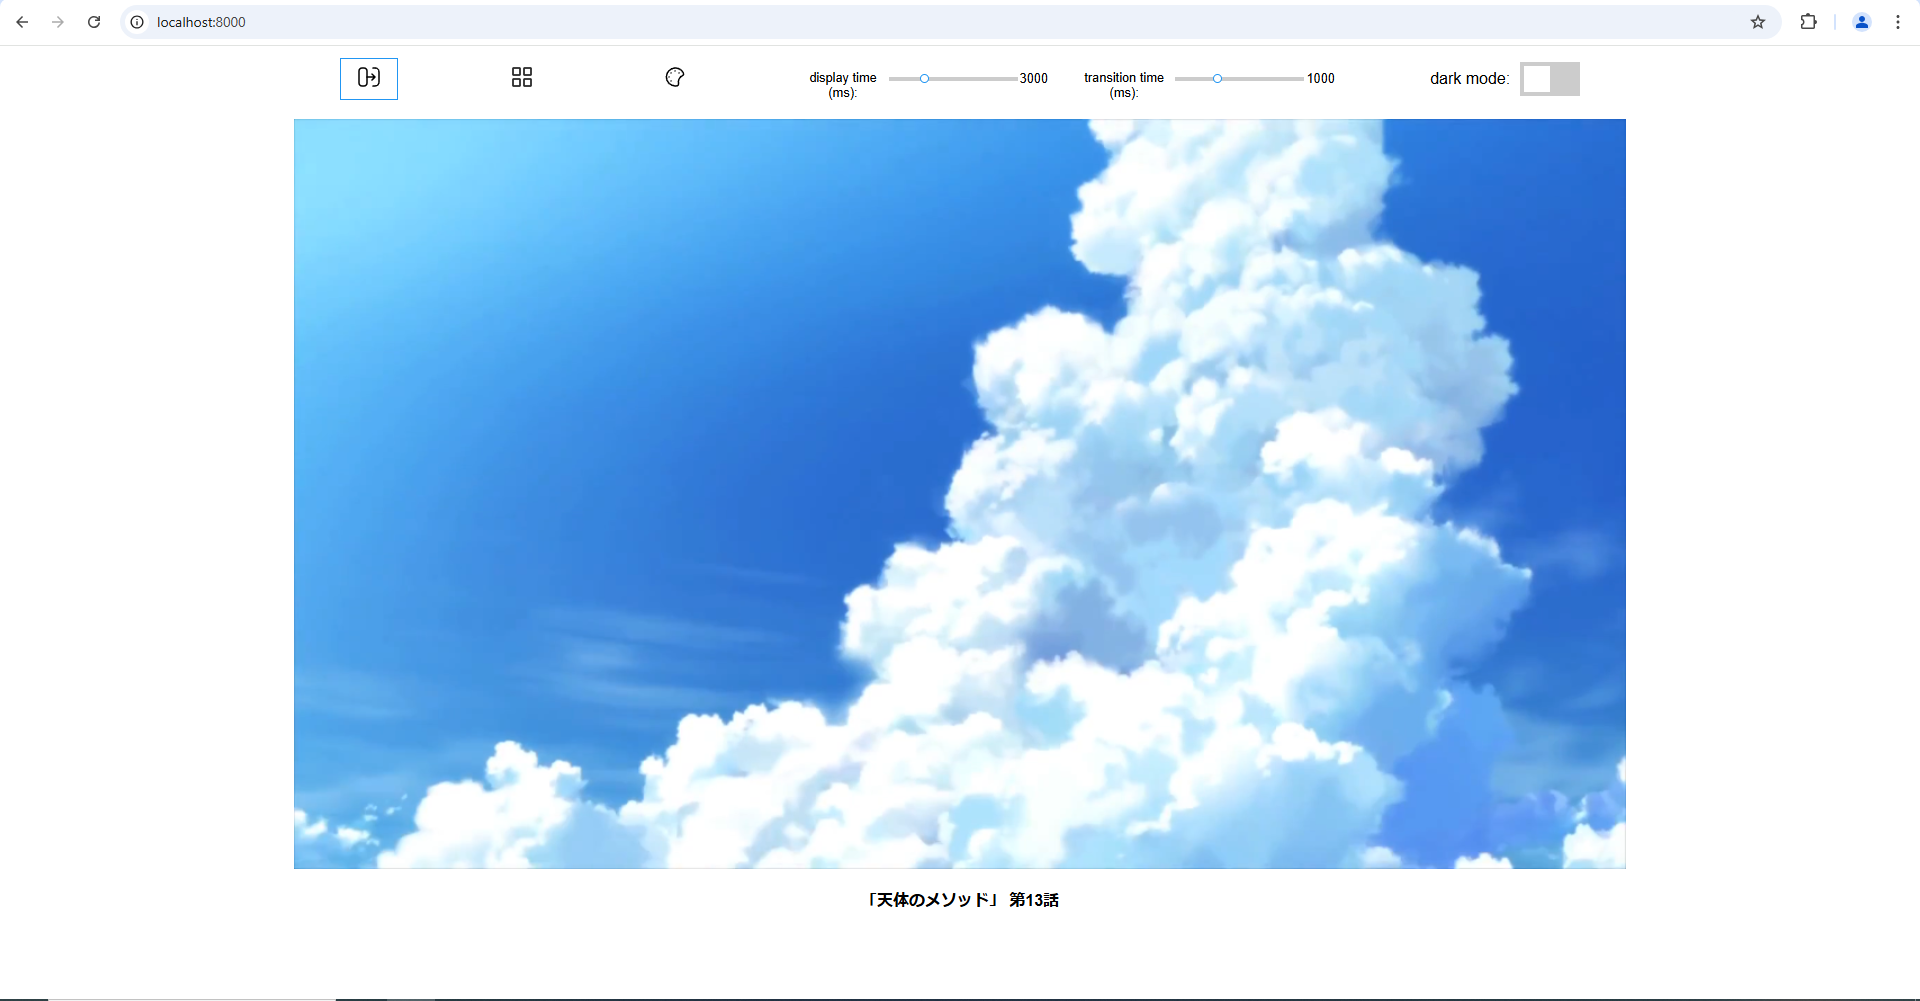
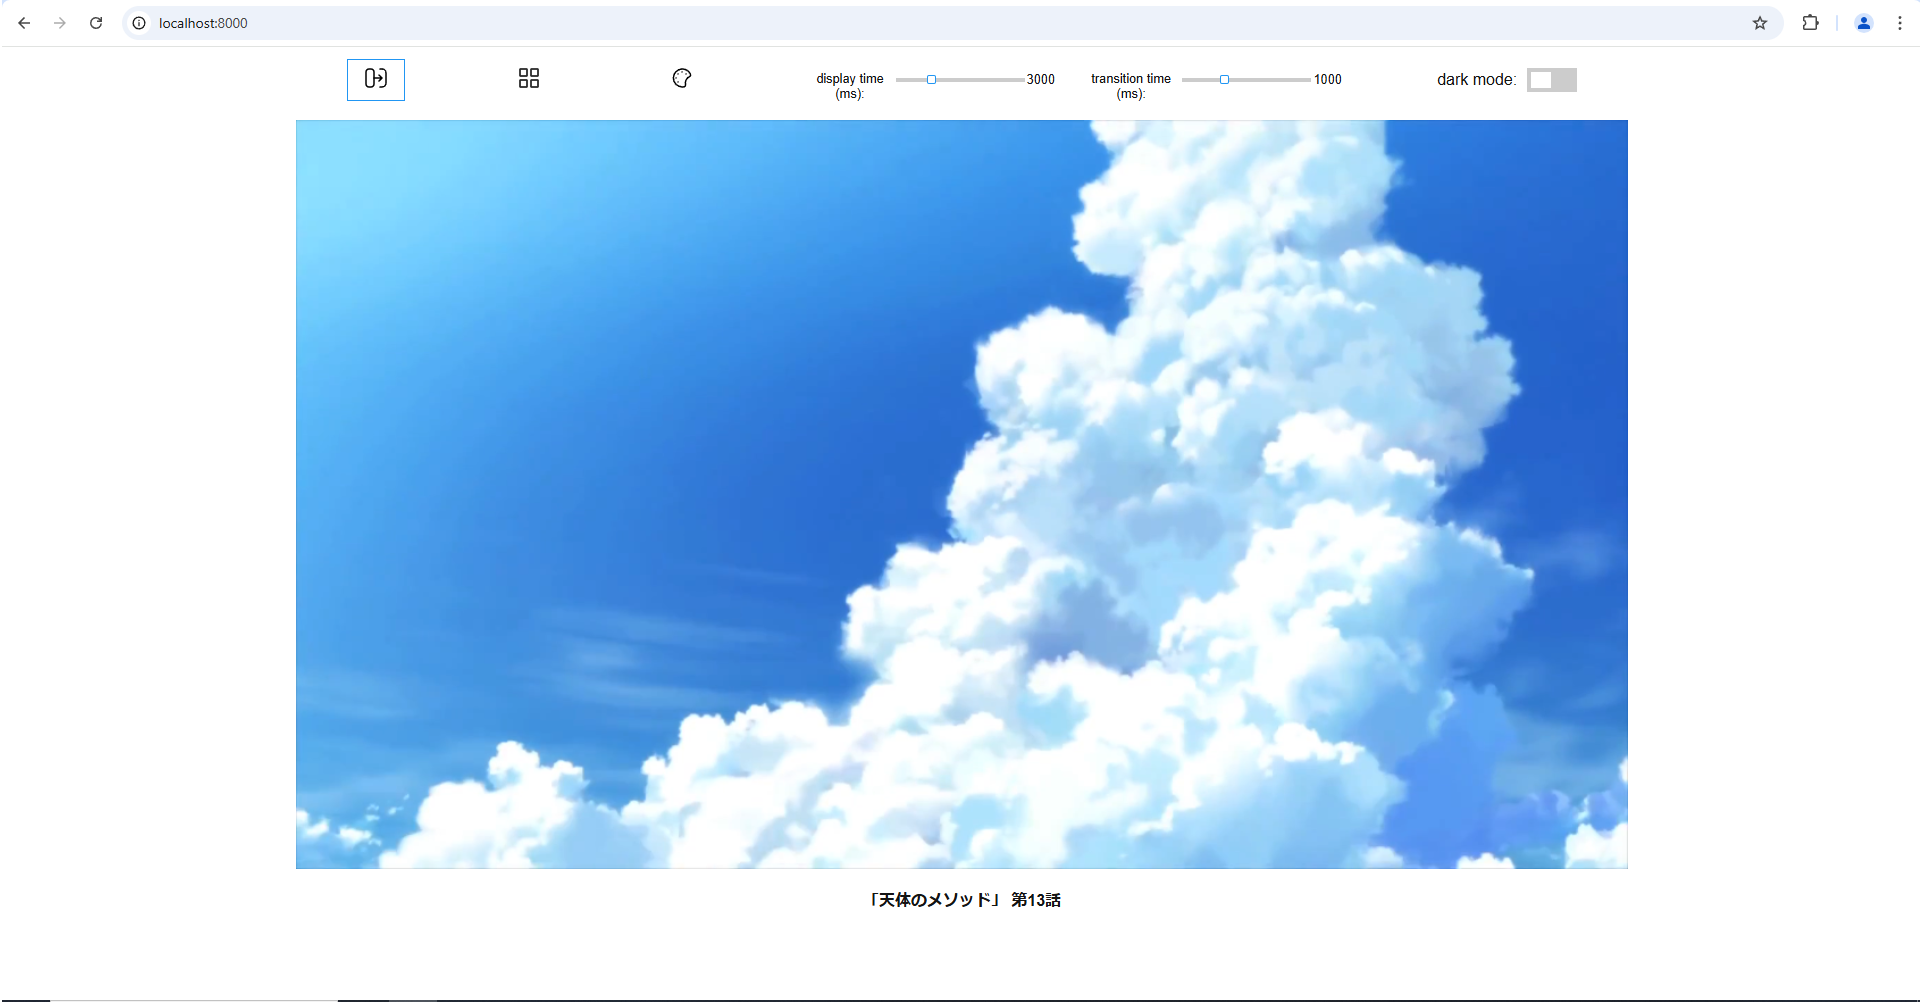
added a new sky, made things a bit more square in the UI, fixed border transition on hover for buttons (#4)

diff --git a/index.html b/index.html
@@ -36,7 +36,7 @@
       }
       
       button:hover {
-        border: 1px solid #ccc;
+        border: 1px solid #ccc !important;
         transition: 1s;
       }
       
@@ -108,7 +108,7 @@
         width: 9px;
         height: 9px;
         border: 1px solid #2196f3;
-        border-radius: 18px;
+        border-radius: 2px;
         cursor: pointer;
         background-color: #fff;
       }
@@ -120,7 +120,7 @@
         width: 9px;
         height: 9px;
         border: 1px solid #2196f3;
-        border-radius: 18px;
+        border-radius: 2px;
         cursor: pointer;
         background-color: #fff;
       }
@@ -158,8 +158,8 @@
       .switch {
         position: relative;
         display: inline-block;
-        width: 60px;
-        height: 34px;
+        width: 50px;
+        height: 24px;
       }
       
       .slider {
@@ -176,8 +176,8 @@
       .slider:before {
         position: absolute;
         content: "";
-        height: 26px;
-        width: 26px;
+        height: 16px;
+        width: 20px;
         left: 4px;
         bottom: 4px;
         background-color: #fff;
@@ -197,7 +197,7 @@
       }
       
       #toggleDarkModeCheckbox:checked + .slider:before {
-        transform: translateX(26px);
+        transform: translateX(22px);
       }
       
       .slideRight {
@@ -224,7 +224,7 @@
         <svg width="24px" height="24px" stroke-width="1.5" viewBox="0 0 24 24" fill="none" xmlns="http://www.w3.org/2000/svg" color="#000000"><path d="M14 20.4V14.6C14 14.2686 14.2686 14 14.6 14H20.4C20.7314 14 21 14.2686 21 14.6V20.4C21 20.7314 20.7314 21 20.4 21H14.6C14.2686 21 14 20.7314 14 20.4Z" stroke="#000000" stroke-width="1.5"></path><path d="M3 20.4V14.6C3 14.2686 3.26863 14 3.6 14H9.4C9.73137 14 10 14.2686 10 14.6V20.4C10 20.7314 9.73137 21 9.4 21H3.6C3.26863 21 3 20.7314 3 20.4Z" stroke="#000000" stroke-width="1.5"></path><path d="M14 9.4V3.6C14 3.26863 14.2686 3 14.6 3H20.4C20.7314 3 21 3.26863 21 3.6V9.4C21 9.73137 20.7314 10 20.4 10H14.6C14.2686 10 14 9.73137 14 9.4Z" stroke="#000000" stroke-width="1.5"></path><path d="M3 9.4V3.6C3 3.26863 3.26863 3 3.6 3H9.4C9.73137 3 10 3.26863 10 3.6V9.4C10 9.73137 9.73137 10 9.4 10H3.6C3.26863 10 3 9.73137 3 9.4Z" stroke="#000000" stroke-width="1.5"></path></svg>
       </button>
       
-      <button id='analyzeSky' onclick='analyzeImage(skies[skyIndex])'>
+      <button id='analyzeSky' title='get current sky color palette' onclick='analyzeImage(skies[skyIndex])'>
         <!-- from https://iconoir.com/ (palette) -->
         <svg width="24px" height="24px" stroke-width="1.5" viewBox="0 0 24 24" fill="none" xmlns="http://www.w3.org/2000/svg" color="#000000"><path d="M20.5096 9.54C20.4243 9.77932 20.2918 9.99909 20.12 10.1863C19.9483 10.3735 19.7407 10.5244 19.5096 10.63C18.2796 11.1806 17.2346 12.0745 16.5002 13.2045C15.7659 14.3345 15.3733 15.6524 15.3696 17C15.3711 17.4701 15.418 17.9389 15.5096 18.4C15.5707 18.6818 15.5747 18.973 15.5215 19.2564C15.4682 19.5397 15.3588 19.8096 15.1996 20.05C15.0649 20.2604 14.8877 20.4403 14.6793 20.5781C14.4709 20.7158 14.2359 20.8085 13.9896 20.85C13.4554 20.9504 12.9131 21.0006 12.3696 21C11.1638 21.0006 9.97011 20.7588 8.85952 20.2891C7.74893 19.8194 6.74405 19.1314 5.90455 18.2657C5.06506 17.4001 4.40807 16.3747 3.97261 15.2502C3.53714 14.1257 3.33208 12.9252 3.36959 11.72C3.4472 9.47279 4.3586 7.33495 5.92622 5.72296C7.49385 4.11097 9.60542 3.14028 11.8496 3H12.3596C14.0353 3.00042 15.6777 3.46869 17.1017 4.35207C18.5257 5.23544 19.6748 6.49885 20.4196 8C20.6488 8.47498 20.6812 9.02129 20.5096 9.52V9.54Z" stroke="#000000" stroke-width="1.5"></path><path d="M8 16.01L8.01 15.9989" stroke="#000000" stroke-width="1.5" stroke-linecap="round" stroke-linejoin="round"></path><path d="M6 12.01L6.01 11.9989" stroke="#000000" stroke-width="1.5" stroke-linecap="round" stroke-linejoin="round"></path><path d="M8 8.01L8.01 7.99889" stroke="#000000" stroke-width="1.5" stroke-linecap="round" stroke-linejoin="round"></path><path d="M12 6.01L12.01 5.99889" stroke="#000000" stroke-width="1.5" stroke-linecap="round" stroke-linejoin="round"></path><path d="M16 8.01L16.01 7.99889" stroke="#000000" stroke-width="1.5" stroke-linecap="round" stroke-linejoin="round"></path></svg>
       </button>
@@ -313,7 +313,7 @@
         {
           slideshowOn = !slideshowOn;
           if(!slideshowOn){
-            slideshowBtn.style.border = 'none';
+            slideshowBtn.style.border = '1px solid transparent';
             turnOffSlideshow();
           }else{
             slideshowBtn.style.border = '1px solid #2196f3';
@@ -333,7 +333,7 @@
           
           // indicate current mode
           if(slideshowOn) slideshowBtn.style.border = '1px solid #2196f3';
-          gridBtn.style.border = 'none';
+          gridBtn.style.border = '1px solid transparent';
         }
       });
       
@@ -357,7 +357,7 @@
           gridContent.classList.add('slideRight');
           
           // indicate current mode
-          slideshowBtn.style.border = 'none';
+          slideshowBtn.style.border = '1px solid transparent';
           gridBtn.style.border = '1px solid #2196f3';
         }
       });
